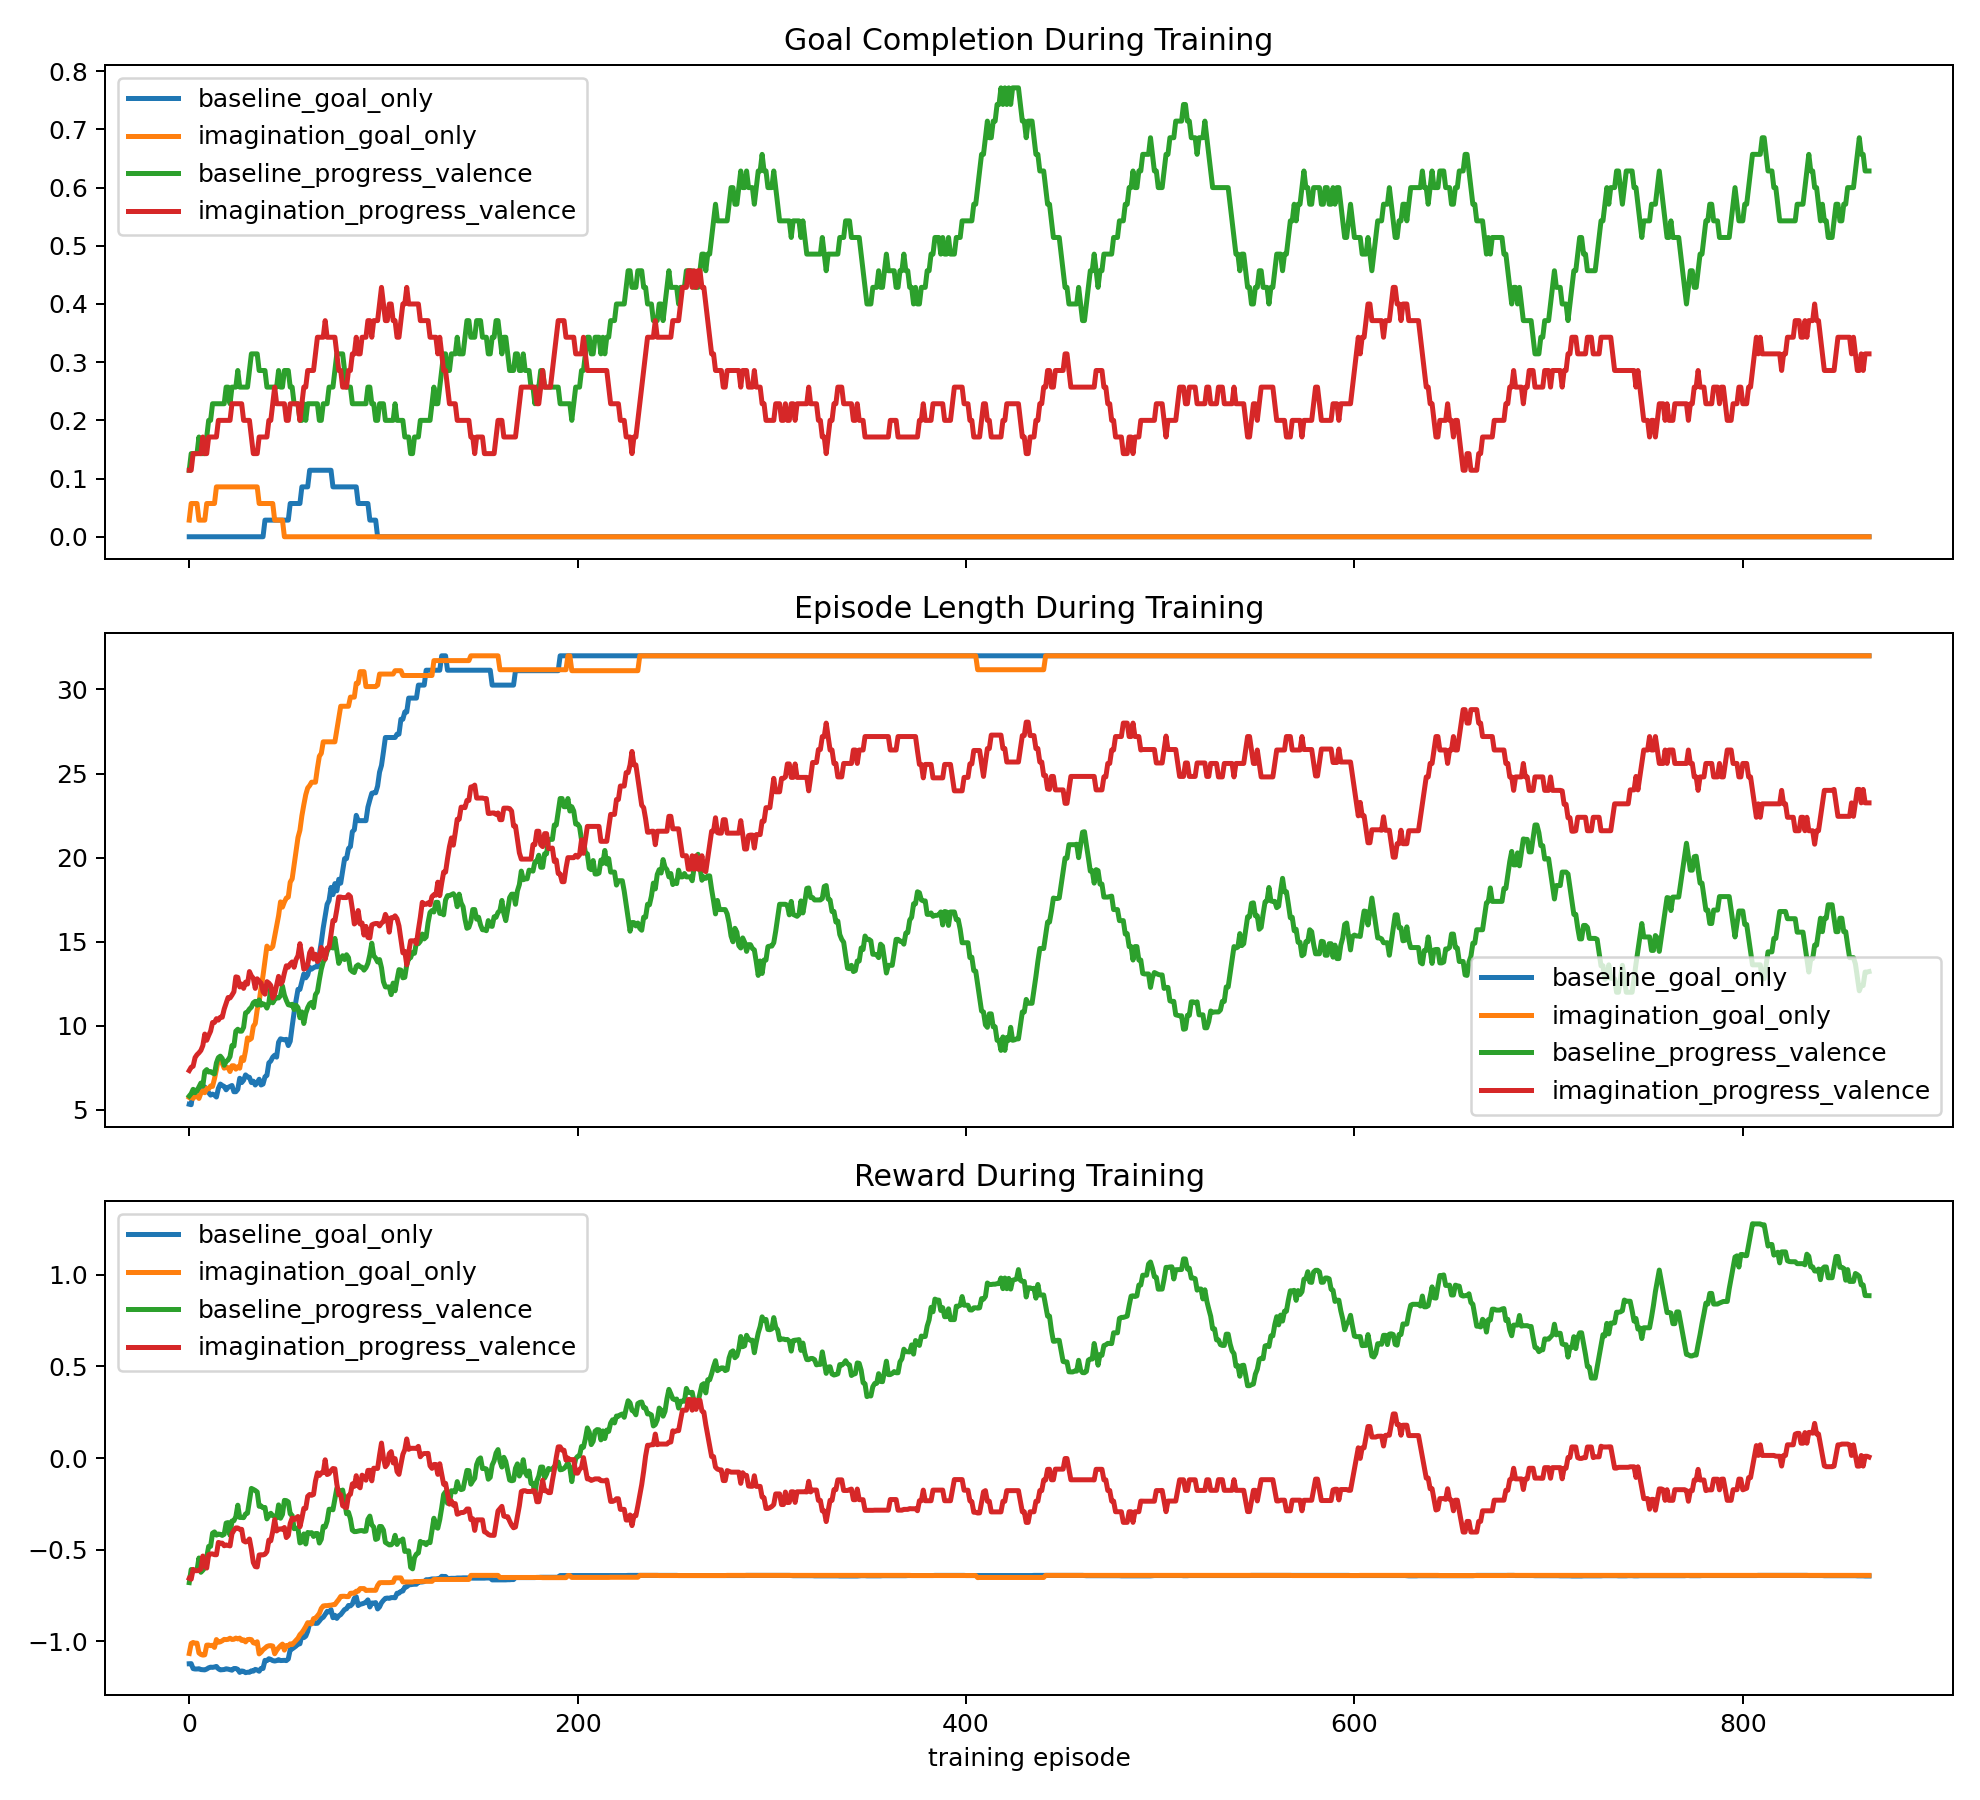
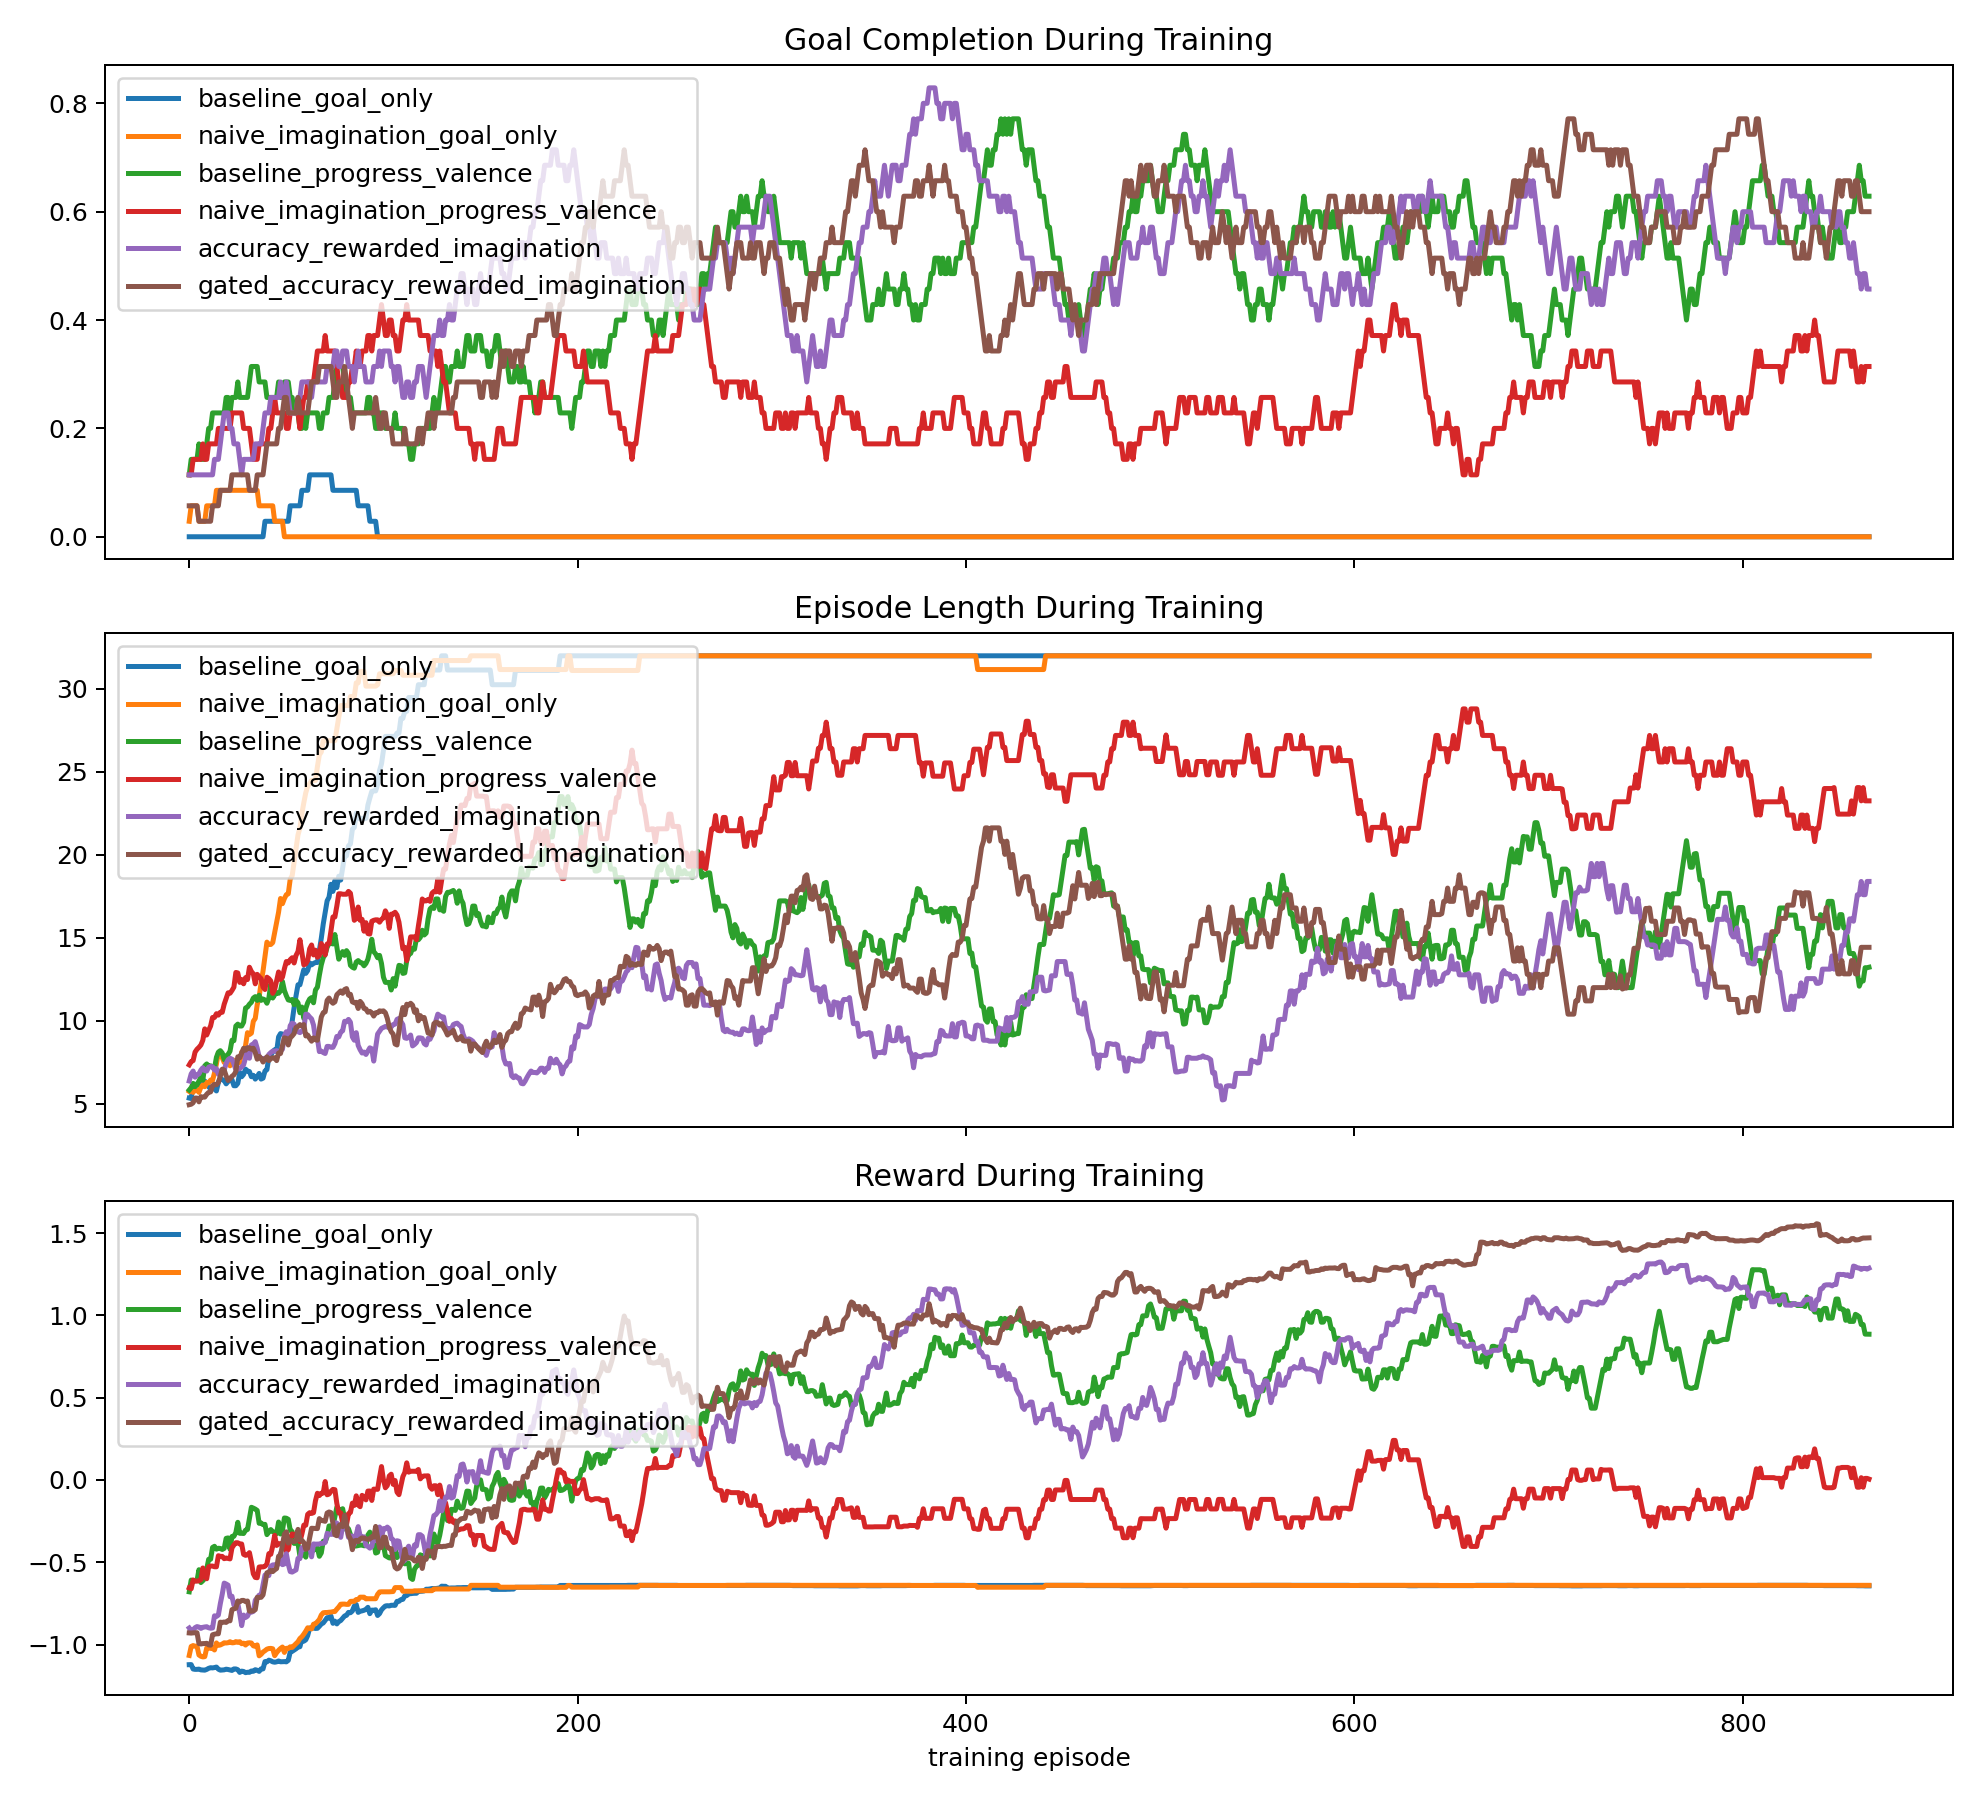
Add grounded imagination test

diff --git a/imagination_lab.py b/imagination_lab.py
@@ -48,30 +48,47 @@ def imagined_action_bonus(agent, h, obs, world_size, actions=5):
     return torch.stack(bonuses)
 
 
-def run_episode(agent, env, train=True, use_imagination=False, imagination_strength=1.0):
+def prediction_accuracy(pred_next, actual_next):
+    mse = F.mse_loss(pred_next, actual_next.detach())
+    return torch.exp(-20.0 * mse), mse
+
+
+def run_episode(agent, env, train=True, imagination_mode="none", imagination_strength=1.0):
     obs = env.reset()
     h = agent.initial_state()
     logps, values, rewards, world_losses = [], [], [], []
     events = []
     imagination_bonuses = []
+    imagination_accuracies = []
+    confidence = torch.tensor(0.0)
 
     for _ in range(env.max_steps):
         h, logits, value, _, _ = agent.forward_step(obs, h)
         bonus = torch.zeros(agent.actions)
-        if use_imagination:
+        if imagination_mode != "none":
             bonus = imagined_action_bonus(agent, h, obs, env.size, agent.actions)
-            logits = logits + imagination_strength * bonus
+            gate = confidence if imagination_mode == "gated_accuracy_rewarded" else torch.tensor(1.0)
+            logits = logits + imagination_strength * gate * bonus
         dist = torch.distributions.Categorical(logits=logits)
         action = dist.sample() if train else torch.argmax(logits)
         pred_next = agent.predict_next_obs(h, action)
         result = env.step(action)
+        accuracy, pred_mse = prediction_accuracy(pred_next, result.obs)
+
+        reward = torch.tensor(result.reward)
+        if imagination_mode in {"accuracy_rewarded", "gated_accuracy_rewarded"}:
+            # Reward accurate imagination, mildly punish misleading imagination.
+            reward = reward + 0.06 * (accuracy.detach() - 0.55)
+
+        confidence = 0.90 * confidence + 0.10 * accuracy.detach()
 
         logps.append(dist.log_prob(action))
         values.append(value)
-        rewards.append(torch.tensor(result.reward))
-        world_losses.append(F.mse_loss(pred_next, result.obs))
+        rewards.append(reward)
+        world_losses.append(pred_mse)
         events.append(result.event)
         imagination_bonuses.append(float(bonus[int(action)].detach()))
+        imagination_accuracies.append(float(accuracy.detach()))
         obs = result.obs
         if result.done:
             break
@@ -92,17 +109,18 @@ def run_episode(agent, env, train=True, use_imagination=False, imagination_stren
         "events": events,
         "steps": len(events),
         "mean_imagination_bonus": float(np.mean(imagination_bonuses)) if imagination_bonuses else 0.0,
+        "mean_imagination_accuracy": float(np.mean(imagination_accuracies)) if imagination_accuracies else 0.0,
     }
 
 
-def train_condition(label, mode, hidden_dim=32, use_imagination=False, episodes=900, eval_runs=96):
+def train_condition(label, mode, hidden_dim=32, imagination_mode="none", episodes=900, eval_runs=96):
     env = ShapingWorld(mode)
     agent = TinyRecurrentAgent(obs_dim=env.obs_dim, hidden_dim=hidden_dim, actions=5)
     opt = torch.optim.Adam(agent.parameters(), lr=0.006)
-    training = {"reward": [], "goal_rate": [], "button_rate": [], "steps": [], "imagination_bonus": []}
+    training = {"reward": [], "goal_rate": [], "button_rate": [], "steps": [], "imagination_bonus": [], "imagination_accuracy": []}
 
     for _ in range(episodes):
-        result = run_episode(agent, env, train=True, use_imagination=use_imagination)
+        result = run_episode(agent, env, train=True, imagination_mode=imagination_mode)
         opt.zero_grad()
         result["loss"].backward()
         torch.nn.utils.clip_grad_norm_(agent.parameters(), 1.0)
@@ -113,20 +131,22 @@ def train_condition(label, mode, hidden_dim=32, use_imagination=False, episodes=
         training["button_rate"].append(result["events"].count("good_button") / max(result["steps"], 1))
         training["steps"].append(result["steps"])
         training["imagination_bonus"].append(result["mean_imagination_bonus"])
+        training["imagination_accuracy"].append(result["mean_imagination_accuracy"])
 
-    evals = [run_episode(agent, env, train=False, use_imagination=use_imagination) for _ in range(eval_runs)]
+    evals = [run_episode(agent, env, train=False, imagination_mode=imagination_mode) for _ in range(eval_runs)]
     total_steps = sum(r["steps"] for r in evals)
     return {
         "label": label,
         "mode": mode,
         "hidden_dim": hidden_dim,
-        "use_imagination": use_imagination,
+        "imagination_mode": imagination_mode,
         "training": training,
         "eval_goal_rate": sum(1 for r in evals if "goal" in r["events"]) / len(evals),
         "eval_hazard_rate": sum(1 for r in evals if "hazard" in r["events"]) / len(evals),
         "eval_button_rate": sum(r["events"].count("good_button") for r in evals) / max(total_steps, 1),
         "eval_mean_steps": float(np.mean([r["steps"] for r in evals])),
         "eval_mean_reward": float(np.mean([r["reward"] for r in evals])),
+        "eval_mean_imagination_accuracy": float(np.mean([r["mean_imagination_accuracy"] for r in evals])),
     }
 
 
@@ -180,25 +200,28 @@ def main():
     set_seed(41)
     OUT.mkdir(exist_ok=True)
     configs = [
-        ("baseline_goal_only", "goal_only", False),
-        ("imagination_goal_only", "goal_only", True),
-        ("baseline_progress_valence", "large_progress_reward", False),
-        ("imagination_progress_valence", "large_progress_reward", True),
+        ("baseline_goal_only", "goal_only", "none"),
+        ("naive_imagination_goal_only", "goal_only", "naive"),
+        ("baseline_progress_valence", "large_progress_reward", "none"),
+        ("naive_imagination_progress_valence", "large_progress_reward", "naive"),
+        ("accuracy_rewarded_imagination", "large_progress_reward", "accuracy_rewarded"),
+        ("gated_accuracy_rewarded_imagination", "large_progress_reward", "gated_accuracy_rewarded"),
     ]
     results = {
-        label: train_condition(label, mode, use_imagination=use_imagination)
-        for label, mode, use_imagination in configs
+        label: train_condition(label, mode, imagination_mode=imagination_mode)
+        for label, mode, imagination_mode in configs
     }
     serializable = {
         label: {
             "mode": data["mode"],
             "hidden_dim": data["hidden_dim"],
-            "use_imagination": data["use_imagination"],
+            "imagination_mode": data["imagination_mode"],
             "eval_goal_rate": data["eval_goal_rate"],
             "eval_hazard_rate": data["eval_hazard_rate"],
             "eval_button_rate": data["eval_button_rate"],
             "eval_mean_steps": data["eval_mean_steps"],
             "eval_mean_reward": data["eval_mean_reward"],
+            "eval_mean_imagination_accuracy": data["eval_mean_imagination_accuracy"],
         }
         for label, data in results.items()
     }

diff --git a/README.md b/README.md
@@ -310,24 +310,34 @@ like:
 This was meant to test whether "intuition" improves learning by letting the
 agent simulate before acting.
 
-The first result was negative:
+The first result was negative, then grounding improved it:
 
 ```text
-baseline_goal_only:              goal_rate 0.000, mean_steps 32.00
-imagination_goal_only:           goal_rate 0.000, mean_steps 32.00
-baseline_progress_valence:       goal_rate 0.635, mean_steps 14.21
-imagination_progress_valence:    goal_rate 0.240, mean_steps 25.29
+baseline_goal_only:                    goal_rate 0.000, mean_steps 32.00
+naive_imagination_goal_only:           goal_rate 0.000, mean_steps 32.00
+baseline_progress_valence:             goal_rate 0.635, mean_steps 14.21
+naive_imagination_progress_valence:    goal_rate 0.240, mean_steps 25.29
+accuracy_rewarded_imagination:         goal_rate 0.510, mean_steps 17.71
+gated_accuracy_rewarded_imagination:   goal_rate 0.531, mean_steps 17.13
 ```
 
 Naive imagination did not help. It hurt the progress-valence agent, likely
 because its early world model was not reliable enough. The agent acted on bad
 intuition.
 
+Rewarding imagination for matching reality helped recover much of the lost
+performance. Adding a confidence gate helped a little more. But neither grounded
+imagination variant beat the plain progress-valence baseline in this run.
+
 This suggests another useful boundary:
 
-> intuition is only helpful when the internal world model is accurate enough to
-> trust, and when confidence gates prevent bad imagination from dominating
-> action.
+> Imagination should be rewarded for matching reality before it is trusted to
+> guide action.
+
+And the negative version:
+
+> Imagination without an accurate world model is delusional. Ungrounded
+> intuition corrupts the motivational signal.
 
 ![Imagination training](outputs/imagination_training.png)
 